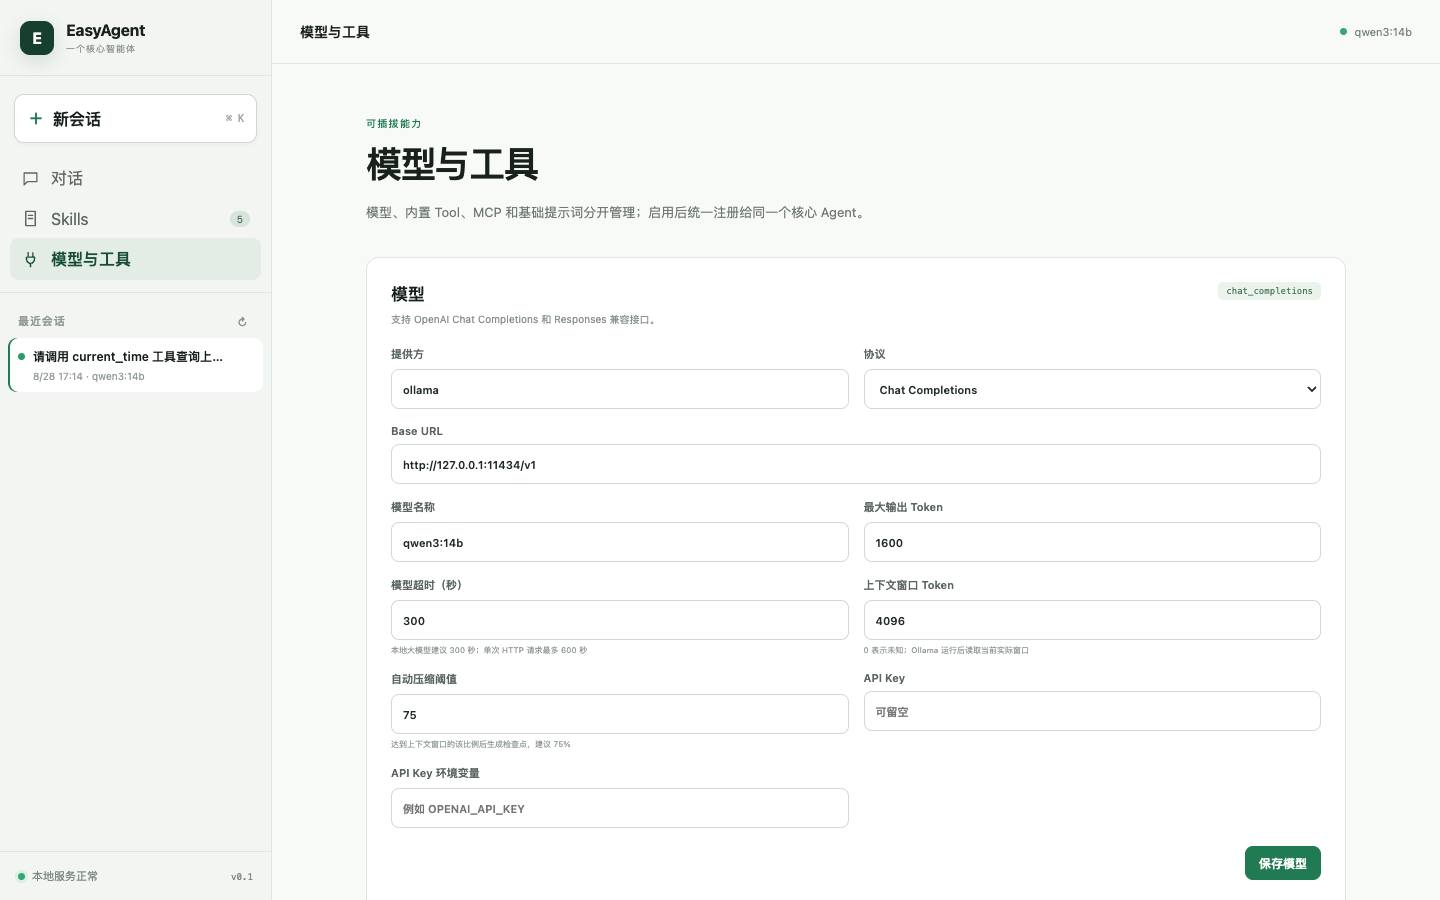
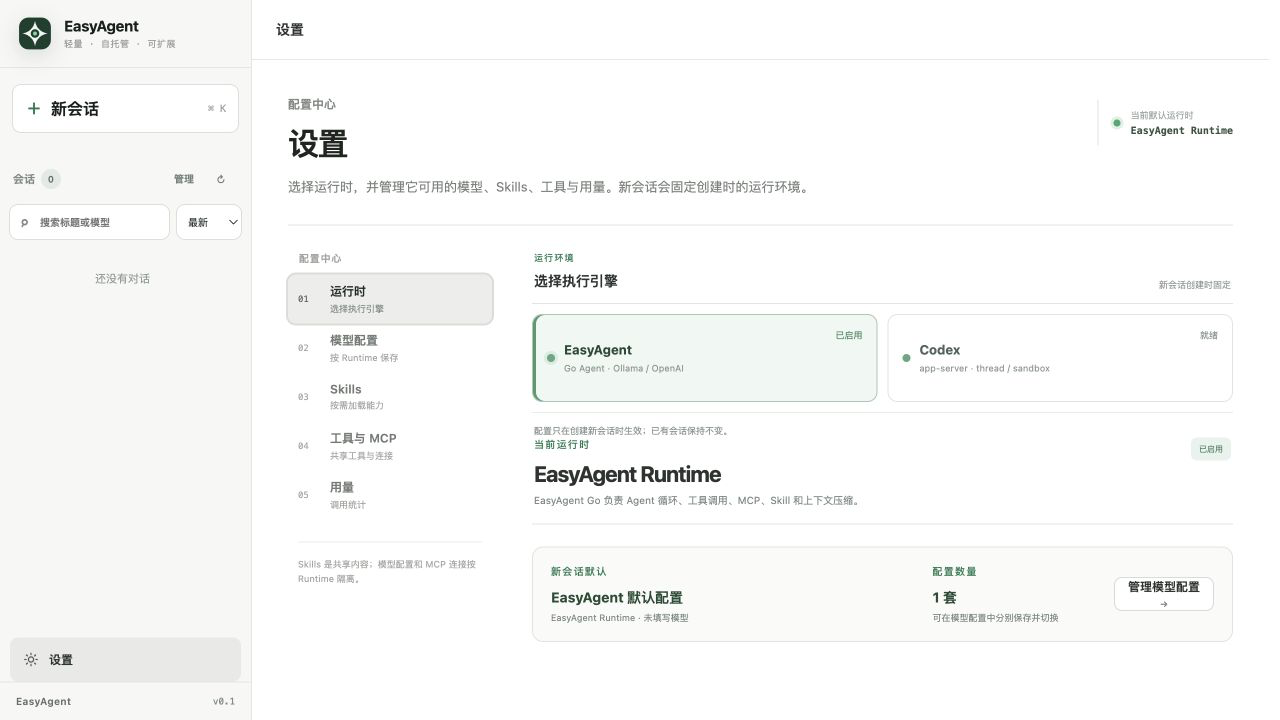
docs: refresh README UI screenshots

diff --git a/README.md b/README.md
@@ -16,7 +16,26 @@
 - 查看完整 Agent Trace：真实请求响应、工具输入输出、Token、缓存、耗时与错误。
 - 长会话自动生成上下文检查点，原始消息始终保存在 SQLite。
 
-<p align="center"><img src="docs/images/conversation.png" alt="EasyAgent 对话界面" width="920" /></p>
+## 界面预览
+
+对话、运行时和能力管理使用同一套工作区视觉语言；新会话创建时固定运行时与模型配置，已有会话不会被后续修改影响。
+
+<p align="center">
+  <img src="docs/images/conversation.png" alt="EasyAgent 对话工作区" width="920" />
+</p>
+
+<table>
+  <tr>
+    <td align="center" width="50%">
+      <strong>多 Runtime 与运行时配置</strong><br />
+      <img src="docs/images/model-and-tools.png" alt="多 Runtime 设置" width="440" />
+    </td>
+    <td align="center" width="50%">
+      <strong>Skills 按需加载与编辑</strong><br />
+      <img src="docs/images/skills.png" alt="Skills 管理" width="440" />
+    </td>
+  </tr>
+</table>
 
 ## 快速开始
 
@@ -27,7 +46,7 @@ chmod +x easyagent
 ./easyagent
 ```
 
-启动后打开 <http://127.0.0.1:8080>（远程服务器请把 `127.0.0.1` 换成服务器 IP），进入「模型与工具」配置模型后即可对话。发布包不要求安装 Go、Node.js、Python、Git 或 SQLite；只有 Agent 通过 Shell 执行这些程序时，服务器才需要安装对应程序。
+启动后打开 <http://127.0.0.1:8080>（远程服务器请把 `127.0.0.1` 换成服务器 IP），进入「设置 → 模型配置」完成配置后即可对话。发布包不要求安装 Go、Node.js、Python、Git 或 SQLite；只有 Agent 通过 Shell 执行这些程序时，服务器才需要安装对应程序。
 
 从源码构建：
 
@@ -76,7 +95,7 @@ Base URL、默认模型、推理强度和 API Key。API Key 不要写入 `env_ke
 或为每个用户隔离 Unix 用户、HOME 和 Codex 配置；不要把某个用户的 `~/.codex`
 凭据复制给所有用户。
 
-「模型与工具」支持为 EasyAgent 和 Codex 分别保存多套配置。设置页保存的是当前
+「设置 → 模型配置」支持为 EasyAgent 和 Codex 分别保存多套配置。设置页保存的是当前
 profile；首页新会话可以选择同一 Runtime 下的 profile。会话创建后会固定它的
 profile，之后修改或删除其他 profile 不会改变已有会话；仍被会话使用的 profile
 不能删除。
